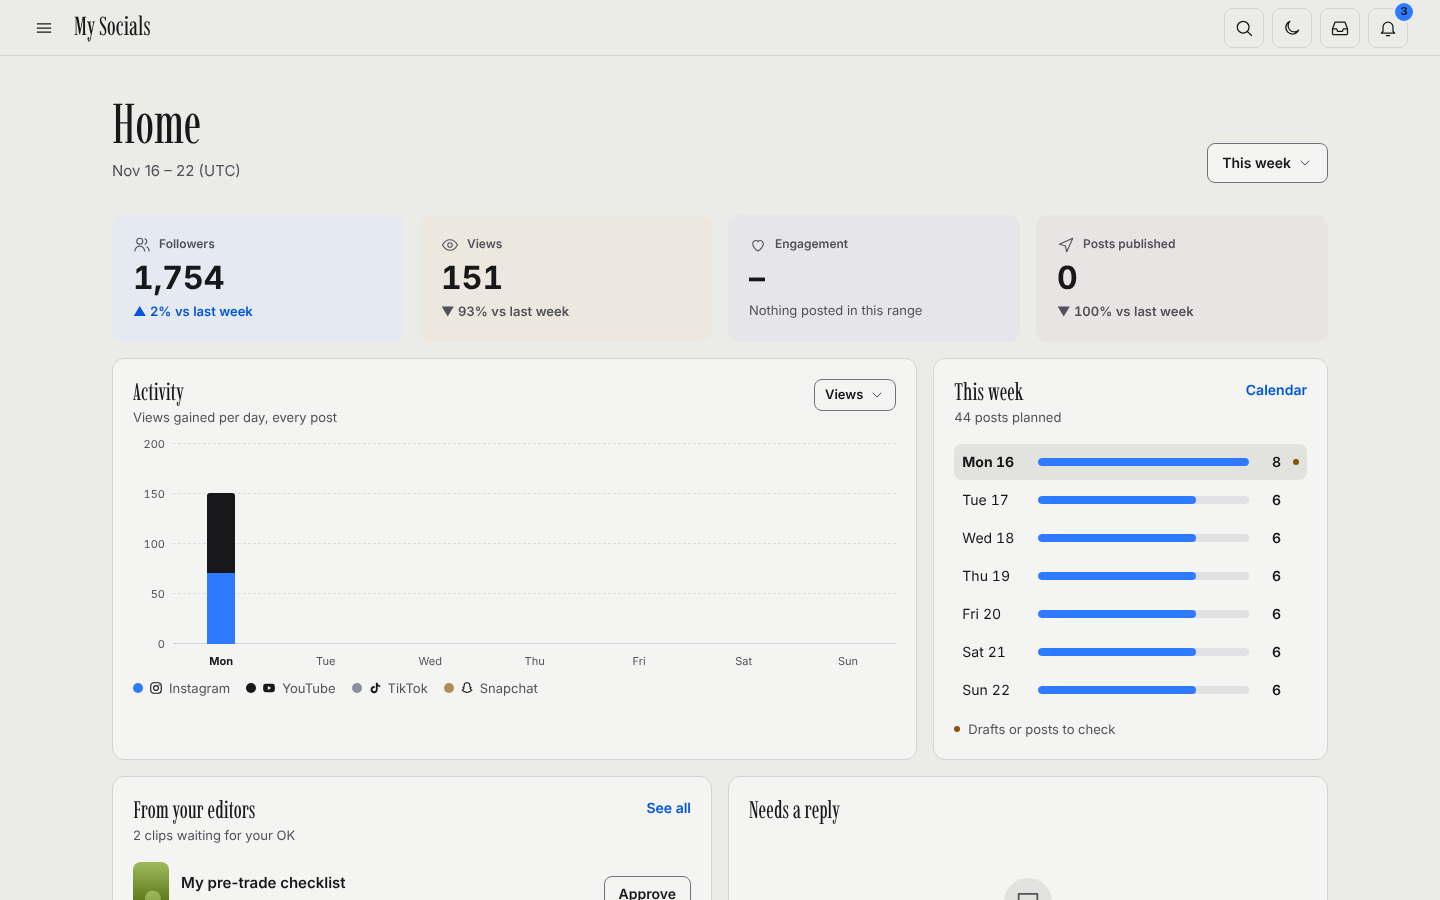
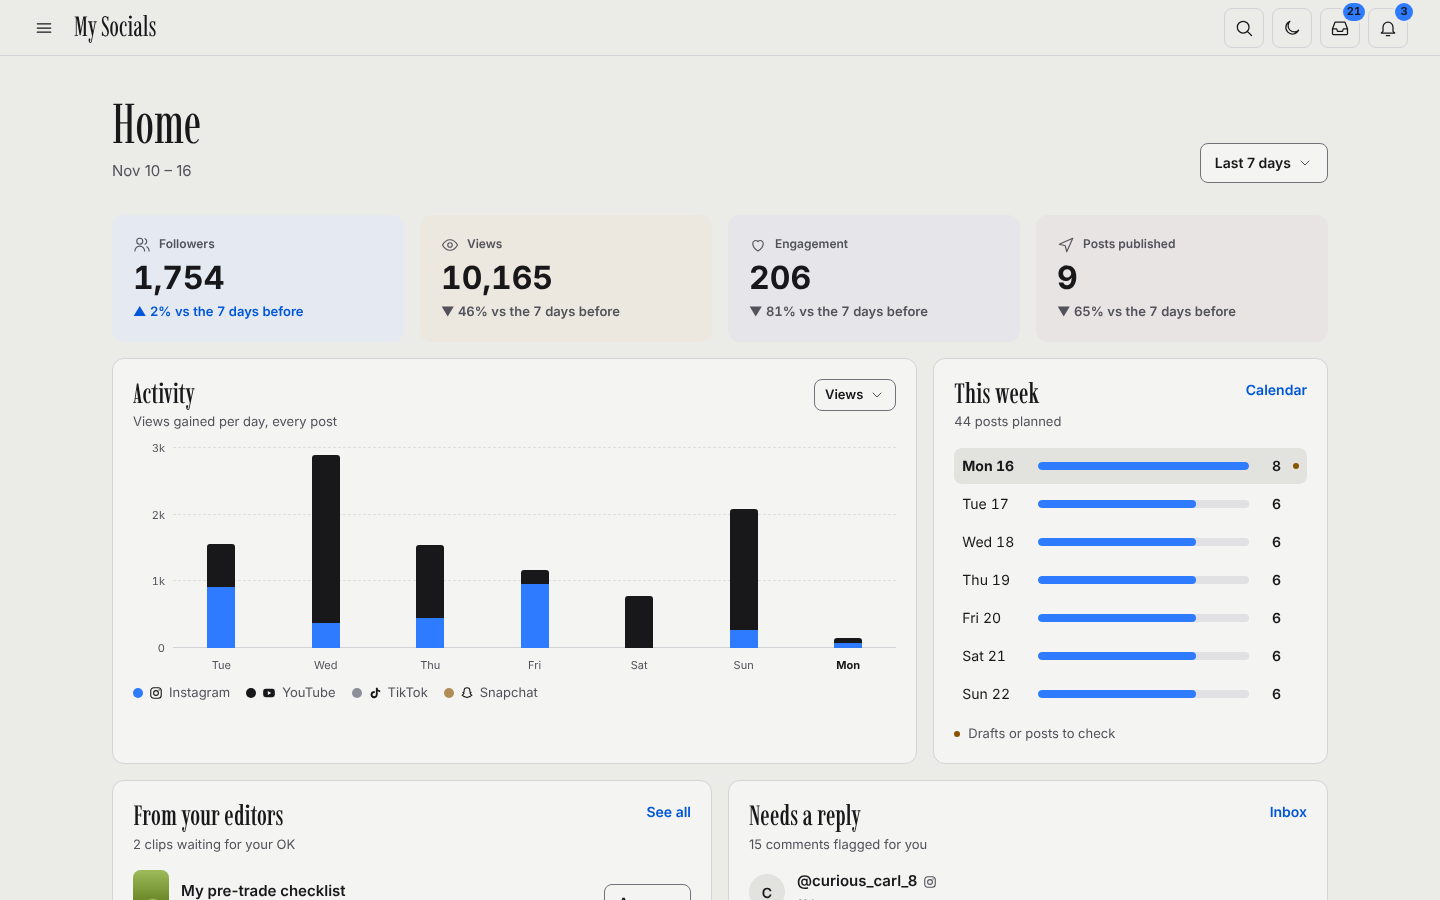
Research backend reviewed (auto ideas/hooks, used archive, yap scripts import, migration 0013) + WIP snapshot of calendar, inbox pages, touch-up (unreviewed)
Claude-Session: https://claude.ai/code/session_01Pfqvb7DoBGuxkrZ85Dq1XH

diff --git a/apps/web/lib/home/dashboard.ts b/apps/web/lib/home/dashboard.ts
@@ -6,16 +6,18 @@ import type { EditorRender } from "../editor/view.js";
 
 // ---------------------------------------------------------------- ranges
 
-export type RangeId = "week" | "last-week" | "30d";
+export type RangeId = "7d" | "30d" | "week";
 export type MetricId = "views" | "engagement";
 
 export const RANGES: ReadonlyArray<{ id: RangeId; label: string; compare: string }> = [
-  { id: "week", label: "This week", compare: "vs last week" },
-  { id: "last-week", label: "Last week", compare: "vs the week before" },
+  { id: "7d", label: "Last 7 days", compare: "vs the 7 days before" },
   { id: "30d", label: "Last 30 days", compare: "vs the 30 days before" },
+  { id: "week", label: "This week", compare: "vs last week" },
 ];
 
-export const parseRange = (raw: unknown): RangeId => (raw === "last-week" || raw === "30d" ? raw : "week");
+/** Default: the rolling 7 days (a calendar week makes Monday look like a crash). */
+export const DEFAULT_RANGE: RangeId = "7d";
+export const parseRange = (raw: unknown): RangeId => (raw === "30d" || raw === "week" ? raw : "7d");
 export const parseMetric = (raw: unknown): MetricId => (raw === "engagement" ? "engagement" : "views");
 
 /** A window of creator-local calendar days: [start, endExcl). `days` = the days the chart shows. */
@@ -29,21 +31,18 @@ const span = (start: string, n: number): string[] => Array.from({ length: n }, (
 export const mondayOf = (ymd: string): string => addCalendarDays(ymd, -weekdayIndex(ymd));
 
 /**
- * The range's window and the one it is compared with. "This week" counts Monday..today and compares with
- * the same days last week (a fair partial-week comparison); the chart still shows Mon–Sun.
+ * The range's window and the one it is compared with. Rolling ranges (7 / 30 days, today included)
+ * compare with the equal-length period just before. "This week" counts Monday..today and compares with
+ * the same days last week (a fair partial-week comparison); its chart still shows Mon–Sun.
  */
 export function periodsFor(range: RangeId, today: string): { current: Period; previous: Period } {
-  if (range === "30d") {
-    const start = addCalendarDays(today, -29);
-    const pStart = addCalendarDays(start, -30);
-    return { current: { start, endExcl: addCalendarDays(today, 1), days: span(start, 30) }, previous: { start: pStart, endExcl: start, days: span(pStart, 30) } };
+  if (range === "30d" || range === "7d") {
+    const n = range === "30d" ? 30 : 7;
+    const start = addCalendarDays(today, -(n - 1));
+    const pStart = addCalendarDays(start, -n);
+    return { current: { start, endExcl: addCalendarDays(today, 1), days: span(start, n) }, previous: { start: pStart, endExcl: start, days: span(pStart, n) } };
   }
   const thisMon = mondayOf(today);
-  if (range === "last-week") {
-    const start = addCalendarDays(thisMon, -7);
-    const pStart = addCalendarDays(start, -7);
-    return { current: { start, endExcl: thisMon, days: span(start, 7) }, previous: { start: pStart, endExcl: start, days: span(pStart, 7) } };
-  }
   const elapsed = weekdayIndex(today) + 1;
   const pStart = addCalendarDays(thisMon, -7);
   return {
@@ -105,9 +104,13 @@ const num = (x: number | null | undefined) => (x == null || !Number.isFinite(x) 
 export const engagementOf = (r: Pick<PostMetricRow, "likes" | "comments" | "shares">) => num(r.likes) + num(r.comments) + num(r.shares);
 const hasMetrics = (r: PostMetricRow) => r.views != null || r.likes != null || r.comments != null || r.shares != null;
 
-/** "▲ 12% vs last week" / "▼ 8% …" / "Same as …"; null when there is nothing to compare with. */
+/**
+ * "▲ 12% vs last week" / "▼ 8% …" / "Same as …". No delta when there is nothing to compare with (previous
+ * null or 0); a current 0 reads "None yet" (muted) instead of "▼ 100%".
+ */
 export function deltaOf(cur: number | null, prev: number | null, compare: string): Delta | null {
   if (cur == null || prev == null || prev <= 0) return null;
+  if (cur === 0) return { text: "None yet", tone: "flat" };
   const pct = Math.round(((cur - prev) / prev) * 100);
   if (pct === 0) return { text: `Same as ${compare.replace(/^vs /, "")}`, tone: "flat" };
   return pct > 0 ? { text: `▲ ${pct}% ${compare}`, tone: "up" } : { text: `▼ ${Math.abs(pct)}% ${compare}`, tone: "down" };

diff --git a/apps/web/public/sw.js b/apps/web/public/sw.js
@@ -1,9 +1,15 @@
 /* autopilot service worker (F8): Web Push only. No fetch handler, no caching, no data stored.
  * Served at /app/sw.js with scope /app/ (public/ under basePath /app; the middleware lets it through).
  * The payload carries only {count, kinds[], sources[], url} (never alert text), so the notification
- * shows a count + kind names; a tap always opens /app/alerts, whatever the payload says. */
+ * shows a count + kind names; a tap opens /app/notifications. One exception (run 4): a push made only of
+ * `reply-ready` alerts may carry a privacy-linted `body` (shown as the text) and an inbox `url`, which a tap
+ * opens only when it is a same-app path under /app/inbox. Anything else opens the default. */
 
-const ALERTS_URL = "/app/alerts";
+const DEFAULT_URL = "/app/notifications";
+/** Same-origin app path under /app/inbox (no scheme, no //, no ..), else null. */
+function inboxUrl(u) {
+  return typeof u === "string" && /^\/app\/inbox(\/[A-Za-z0-9_-]+)*\/?$/.test(u) ? u : null;
+}
 // Same labels as apps/web/lib/alerts/queries.ts (a test keeps them in sync).
 const KIND_LABELS = {
   "final-failure": "Failed",
@@ -25,10 +31,15 @@ const KIND_LABELS = {
 
 function notificationView(data) {
   const d = data && typeof data === "object" ? data : {};
-  if (d.test === true) return { title: "Test notification", body: "Alerts will arrive like this." };
+  if (d.test === true) return { title: "Test notification", body: "Alerts will arrive like this.", url: DEFAULT_URL };
   const count = Number.isInteger(d.count) && d.count > 0 ? d.count : 1;
-  const kinds = Array.isArray(d.kinds) ? d.kinds.filter((k) => Object.prototype.hasOwnProperty.call(KIND_LABELS, k)).map((k) => KIND_LABELS[k]) : [];
-  return { title: count === 1 ? "1 new alert" : `${count} new alerts`, body: kinds.length ? kinds.join(" · ") : "Open alerts" };
+  const raw = Array.isArray(d.kinds) ? d.kinds.filter((k) => Object.prototype.hasOwnProperty.call(KIND_LABELS, k)) : [];
+  if (raw.length > 0 && raw.every((k) => k === "reply-ready")) {
+    const body = typeof d.body === "string" && d.body.trim() ? d.body.trim().slice(0, 200) : count === 1 ? "A comment is waiting for your reply." : `${count} comments are waiting for your reply.`;
+    return { title: count === 1 ? "Reply ready" : `${count} replies ready`, body, url: inboxUrl(d.url) || DEFAULT_URL };
+  }
+  const kinds = raw.map((k) => KIND_LABELS[k]);
+  return { title: count === 1 ? "1 new alert" : `${count} new alerts`, body: kinds.length ? kinds.join(" · ") : "Open alerts", url: DEFAULT_URL };
 }
 
 self.addEventListener("install", () => {
@@ -53,27 +64,29 @@ self.addEventListener("push", (event) => {
       tag: "autopilot-alerts",
       renotify: true,
       icon: "/app/icons/icon-192.png",
-      data: { url: ALERTS_URL },
+      data: { url: view.url },
     }),
   );
 });
 
 self.addEventListener("notificationclick", (event) => {
   event.notification.close();
+  const data = event.notification.data;
+  const target = inboxUrl(data && data.url) || DEFAULT_URL;
   event.waitUntil(
     (async () => {
       const wins = await self.clients.matchAll({ type: "window", includeUncontrolled: true });
       for (const w of wins) {
         if (typeof w.navigate === "function" && typeof w.focus === "function") {
           try {
-            await w.navigate(ALERTS_URL); // throws for a window this worker doesn't control
+            await w.navigate(target); // throws for a window this worker doesn't control
             return await w.focus();
           } catch (_) {
             /* try the next window, else open one */
           }
         }
       }
-      return self.clients.openWindow(ALERTS_URL);
+      return self.clients.openWindow(target);
     })(),
   );
 });

diff --git a/apps/web/lib/push/__tests__/sw.test.ts b/apps/web/lib/push/__tests__/sw.test.ts
@@ -37,7 +37,7 @@ describe("public/sw.js", () => {
     expect(sw.shown).toHaveLength(1);
     expect(sw.shown[0]!.title).toBe("3 new alerts");
     expect(sw.shown[0]!.opts.body).toBe("Failed · Login");
-    expect(sw.shown[0]!.opts.data.url).toBe("/app/alerts");
+    expect(sw.shown[0]!.opts.data.url).toBe("/app/notifications");
   });
 
   it("one alert, a test payload, unknown kinds and a broken payload", async () => {
@@ -51,12 +51,26 @@ describe("public/sw.js", () => {
     expect(sw.shown.map((s) => s.opts.body).join()).not.toContain("evil");
   });
 
-  it("a click always opens /app/alerts, whatever the payload url says", async () => {
+  it("a click opens /app/notifications unless the url is an /app/inbox path", async () => {
     const sw = loadSw();
     let closed = false;
     await sw.fire("notificationclick", { notification: { close: () => (closed = true), data: { url: "https://evil.example.com" } } });
     expect(closed).toBe(true);
-    expect(sw.opened).toEqual(["/app/alerts"]);
+    for (const url of ["//evil.example.com/app/inbox", "/app/inbox/../settings", "/app/inboxx", "/app/batches/1", "javascript:alert(1)"])
+      await sw.fire("notificationclick", { notification: { close: () => {}, data: { url } } });
+    await sw.fire("notificationclick", { notification: { close: () => {}, data: { url: "/app/inbox/item/0b1c2d3e-aaaa-4bbb-8ccc-123456789abc" } } });
+    expect(sw.opened).toEqual([...Array(6).fill("/app/notifications"), "/app/inbox/item/0b1c2d3e-aaaa-4bbb-8ccc-123456789abc"]);
+  });
+
+  it("reply-ready pushes show the payload body and keep an inbox url", async () => {
+    const sw = loadSw();
+    await sw.push({ count: 1, kinds: ["reply-ready"], sources: ["instagram"], url: "/app/inbox/item/c1", body: "gym_fan_22 asked about your warm-up" });
+    await sw.push({ count: 2, kinds: ["reply-ready"], url: "https://evil.example.com" });
+    await sw.push({ count: 2, kinds: ["reply-ready", "auth"], url: "/app/inbox", body: "should not show" });
+    expect(sw.shown[0]!).toMatchObject({ title: "Reply ready", opts: { body: "gym_fan_22 asked about your warm-up", data: { url: "/app/inbox/item/c1" } } });
+    expect(sw.shown[1]!).toMatchObject({ title: "2 replies ready", opts: { data: { url: "/app/notifications" } } });
+    expect(sw.shown[2]!.opts.body).toBe("Reply ready · Login");
+    expect(sw.shown[2]!.opts.data.url).toBe("/app/notifications");
   });
 
   it("focuses an open app window instead of opening a new one", async () => {
@@ -65,7 +79,7 @@ describe("public/sw.js", () => {
     let focused = false;
     sw.self.clients.matchAll = async () => [{ navigate: async (u: string) => void nav.push(u), focus: async () => void (focused = true) }];
     await sw.fire("notificationclick", { notification: { close: () => {} } });
-    expect(nav).toEqual(["/app/alerts"]);
+    expect(nav).toEqual(["/app/notifications"]);
     expect(focused).toBe(true);
     expect(sw.opened).toEqual([]);
   });
@@ -77,8 +91,8 @@ describe("public/sw.js", () => {
   it("kind labels match the /alerts page for every kind", async () => {
     for (const k of ALERT_KINDS) {
       const sw = loadSw();
-      await sw.push({ count: 1, kinds: [k] });
-      expect(sw.shown[0]!.opts.body, k).toBe(kindLabel(k));
+      await sw.push({ count: 1, kinds: [k, "auth"] });
+      expect(sw.shown[0]!.opts.body, k).toBe(k === "auth" ? "Login · Login" : `${kindLabel(k)} · Login`);
     }
   });
 });

diff --git a/apps/web/lib/home/__tests__/dashboard.test.ts b/apps/web/lib/home/__tests__/dashboard.test.ts
@@ -26,8 +26,9 @@ const TODAY = "2026-11-18";
 describe("ranges", () => {
   it("parses with safe defaults", () => {
     expect(parseRange("30d")).toBe("30d");
-    expect(parseRange("last-week")).toBe("last-week");
-    expect(parseRange("x")).toBe("week");
+    expect(parseRange("week")).toBe("week");
+    expect(parseRange("last-week")).toBe("7d");
+    expect(parseRange(undefined)).toBe("7d");
     expect(parseMetric("engagement")).toBe("engagement");
     expect(parseMetric(undefined)).toBe("views");
   });
@@ -39,9 +40,11 @@ describe("ranges", () => {
     expect(current.days[6]).toBe("2026-11-22");
     expect(previous).toMatchObject({ start: "2026-11-09", endExcl: "2026-11-12" });
   });
-  it("last week and 30 days", () => {
-    expect(periodsFor("last-week", TODAY).current).toMatchObject({ start: "2026-11-09", endExcl: "2026-11-16" });
-    expect(periodsFor("last-week", TODAY).previous).toMatchObject({ start: "2026-11-02", endExcl: "2026-11-09" });
+  it("rolling 7 and 30 days compare with the equal-length period before", () => {
+    const w = periodsFor("7d", TODAY);
+    expect(w.current).toMatchObject({ start: "2026-11-12", endExcl: "2026-11-19" });
+    expect(w.current.days).toHaveLength(7);
+    expect(w.previous).toMatchObject({ start: "2026-11-05", endExcl: "2026-11-12" });
     const m = periodsFor("30d", TODAY);
     expect(m.current.days).toHaveLength(30);
     expect(m.current.days[29]).toBe(TODAY);
@@ -82,8 +85,10 @@ describe("KPIs", () => {
     }
     expect(k[0]!.note).toBe("Collected after the next sync");
   });
-  it("delta words: down, same, nothing to compare", () => {
+  it("delta words: down, same, none yet, nothing to compare", () => {
     expect(deltaOf(90, 100, "vs last week")).toEqual({ text: "▼ 10% vs last week", tone: "down" });
+    expect(deltaOf(0, 12, "vs last week")).toEqual({ text: "None yet", tone: "flat" });
+    expect(deltaOf(0, 0, "vs last week")).toBeNull();
     expect(deltaOf(100, 100, "vs last week")).toEqual({ text: "Same as last week", tone: "flat" });
     expect(deltaOf(5, 0, "vs last week")).toBeNull();
     expect(deltaOf(null, 3, "vs last week")).toBeNull();

diff --git a/apps/web/app/page.tsx b/apps/web/app/page.tsx
@@ -34,6 +34,7 @@ import { handoffContext, listHandoff } from "../lib/handoff/store.js";
 import {
   activityBars,
   buildKpis,
+  DEFAULT_RANGE,
   editorTiles,
   hasActivity,
   kpiText,
@@ -61,7 +62,7 @@ const SERIES: ChartSeries[] = (["instagram", "youtube", "tiktok", "snapchat"] as
 
 function homeHref(range: RangeId, metric: MetricId): string {
   const q = new URLSearchParams();
-  if (range !== "week") q.set("range", range);
+  if (range !== DEFAULT_RANGE) q.set("range", range);
   if (metric !== "views") q.set("metric", metric);
   const s = q.toString();
   return s ? `/?${s}` : "/";
@@ -104,7 +105,7 @@ export default async function HomePage({ searchParams }: { searchParams: SearchP
     <AppFrame active="home" counts={counts}>
       <PageHeader
         title="Home"
-        subtitle={`${rangeText(days[0]!, days[days.length - 1]!)}${zone ? "" : " (UTC)"}`}
+        subtitle={rangeText(days[0]!, days[days.length - 1]!)}
         action={<Dropdown label="Range" options={RANGES.map((r) => ({ label: r.label, href: homeHref(r.id, metric), current: r.id === range }))} />}
       />
 

diff --git a/apps/web/components/ui/PageHeader.tsx b/apps/web/components/ui/PageHeader.tsx
@@ -3,12 +3,12 @@ import type { ReactNode } from "react";
 import { cx, FOCUS } from "./cx.js";
 import { Icon } from "./Icon.js";
 
-/** The app's name as a wordmark: "My Socials" in the display face, 26 px. */
+/** The app's name as a wordmark: "My Socials" in the display face, 28 px. */
 export const APP_NAME = "My Socials";
 
-/** `size="lg"` = 40 px (login card); default 26 px (top bar, sidebar). */
+/** `size="lg"` = 40 px (login card); default 28 px (top bar, sidebar). */
 export function Wordmark({ size = "md", className }: { size?: "md" | "lg"; className?: string }) {
-  return <span className={cx("ds-font-display whitespace-nowrap leading-none text-ds-text", size === "lg" ? "text-[40px]" : "text-[26px]", className)}>{APP_NAME}</span>;
+  return <span className={cx("ds-font-display whitespace-nowrap leading-none text-ds-text", size === "lg" ? "text-[40px]" : "text-[28px]", className)}>{APP_NAME}</span>;
 }
 
 /**

diff --git a/apps/web/app/globals.css b/apps/web/app/globals.css
@@ -161,15 +161,15 @@
   font-size: 40px;
   @media (min-width: 1024px) { font-size: 56px; }
 }
-/* Card / section title: 22 px phone / 24 px desktop. */
+/* Card / section title: 26 px phone / 28 px desktop, weight 500 (400 is too thin at this size). */
 @utility ds-heading {
   font-family: var(--font-display-ds);
-  font-weight: 400;
+  font-weight: 500;
   font-optical-sizing: auto;
   letter-spacing: 0;
   line-height: 1.05;
-  font-size: 22px;
-  @media (min-width: 1024px) { font-size: 24px; }
+  font-size: 26px;
+  @media (min-width: 1024px) { font-size: 28px; }
 }
 /* Labels: 12 px Inter 600, sentence case. */
 @utility ds-label {

diff --git a/docs/design/ui-system.md b/docs/design/ui-system.md
@@ -20,7 +20,7 @@ v3 replaces v2 ("Warm Industrial"). The creator used v2 on his phone and called 
 ## Type
 | Role | Font | Spec | Used for |
 |---|---|---|---|
-| Display | **Imbue** (variable, OFL, self-hosted via `@fontsource-variable/imbue`, `opsz` axis on) | weight 400, uppercase off, letter-spacing 0, line-height 1.0 | the logo, page titles (40 px phone / 56 px desktop), card titles (22–24 px), post titles (20–22 px), KPI numbers are **not** display |
+| Display | **Imbue** (variable, OFL, self-hosted via `@fontsource-variable/imbue`, `opsz` axis on) | weight 400 for the logo and page titles, **500** for card/section titles; uppercase off, letter-spacing 0, line-height 1.0; `font-optical-sizing: auto` so `opsz` follows the size | the logo (28 px), page titles (40 px phone / 56 px desktop), card and section titles (26 px phone / 28 px desktop), post titles (20–22 px); KPI numbers are **not** display |
 | Sans | Inter variable | 400 body, 600 labels and buttons, 700 KPI numbers | everything else |
 | Editorial italic | Playfair Display italic | whole sentences only, 20–28 px | one pull-quote per screen at most ("what worked" headline, an empty-state line). Never inside a phrase with another font. |
 
@@ -28,7 +28,7 @@ Imbue is a tall, condensed, high-contrast didone: the closest free match to the 
 
 Sizes (phone / desktop):
 - page title 40 / 56 display;
-- section or card title 22 / 24 display;
+- section or card title 26 / 28 display, weight 500;
 - KPI number 28 / 32 Inter 700 tabular;
 - body 15 / 15;
 - label 12 / 12 Inter 600, sentence case, `ds-muted` (no tracked caps walls; caps only for 1–2 word tags such as GYM, TRADING, at 11 px tracked 0.06em);
@@ -57,7 +57,7 @@ New tokens:
 │  Page title (display)                     [This week ▾]      │
 │  cards…                                                      │
 ```
-- **Top bar.** Left: menu button (44 px square, icon only) then the logo: the word "My Socials" in Imbue, 26 px, linking Home. Right: exactly four 40 px square icon buttons with 8 px radius and a hairline border: Search, Day/Night, Inbox (count badge), Notifications (count badge). Nothing else: no profile block, no CTA.
+- **Top bar.** Left: menu button (44 px square, icon only) then the logo: the word "My Socials" in Imbue, 28 px, linking Home. Right: exactly four 40 px square icon buttons with 8 px radius and a hairline border: Search, Day/Night, Inbox (count badge), Notifications (count badge). Nothing else: no profile block, no CTA.
 - **Sidebar** (`Sidebar`, client). 264 px wide, card fill, hairline right edge, pop shadow. Logo at the top-left in the same position as the top-bar logo, so opening it doesn't shift the mark. Items, each with a 20 px line icon and an Inter 600 15 px label; the active item is a soft pill (`ds-raised`):
   Home · Calendar · Inbox · Analytics (expandable: Overview, Instagram, YouTube, TikTok, Snapchat) · Research · Library (expandable: All clips, Touch-up) · Platforms (expandable: Instagram, YouTube, TikTok, Snapchat) · Settings. "Log out" sits at the bottom. Groups expand in place; the group containing the current page starts open.
   - **Desktop (≥ 1024 px, fine pointer):** hidden by default. A 12 px invisible hot zone on the left screen edge opens it on `pointerenter`; the menu button and keyboard focus also open it. It stays open while the pointer or focus is inside, and closes **2.5 s after the pointer leaves** (timer cancelled on re-entry). Esc closes at once. It overlays content and never reflows the page.
@@ -87,7 +87,7 @@ Routes are under the `/app` base path. Old routes redirect: `/batches` and `/bat
 
 ### Home `/`
 A quick dashboard, one screen on desktop.
-1. `PageHeader` "Home" + range Dropdown (This week / Last week / Last 30 days).
+1. `PageHeader` "Home" + range Dropdown (Last 7 days, the default / Last 30 days / This week). Rolling ranges compare with the equal-length period before; "This week" with the same weekdays last week. No delta when the previous value is 0 or unknown; a current 0 reads "None yet".
 2. Four `StatTile`s (2 × 2 on phone): Followers (all platforms, change in the range), Views, Engagement (likes + comments + shares), Posts published. Each compares with the previous period. A metric with no data yet shows "–" and a one-line reason, not 0.
 3. Row 8 + 4: **Activity** card (`BarChart` of views per day stacked by platform, with its own metric Dropdown: Views / Engagement) and **This week** card (seven rows or columns Mon–Sun with the number of posts scheduled per day as small bars; today marked; each day links to `/calendar?day=`).
 4. Row 6 + 6: **From your editors** (up to 4 compact `PostCard`s waiting for approval with Approve; "See all" → calendar filtered to drafts) and **Needs a reply** (up to 4 flagged inbox items: who, the comment, the drafted reply, "Approve & send" and "Open").

diff --git a/.claude/skills/research-brief/SKILL.md b/.claude/skills/research-brief/SKILL.md
@@ -7,6 +7,8 @@ description: Build the weekly research brief from tracked creators (top hooks, h
 
 Read-only on the platforms. Writes only to `logs/` and, with his OK, to the research backlog (ideas/hooks).
 
+**Ideas and hooks now arrive by themselves** (decisions.md §4 addendum 2026-11-16): the worker job `research-refresh` runs every 3 days, ranks the tracked creators' recent posts, adds niche ideas and the yap scripts, and writes code-made "about / adapt" notes. Check its last run on Research (or `research_runs`) before doing anything by hand. This skill is the **deeper, on-demand brief**: use it when he wants more than the automatic ideas (a pattern read across creators, a fresh angle, or hooks for a specific week).
+
 ## Steps
 1. Run the script:
    - With live data: `pnpm skill:research-brief` (creators from the DB). **The Business Discovery fetch is a stub** until its field list is verified against Meta's docs and logged in `docs/research.md`; until then it prints FAIL and you use a snapshot file.
@@ -14,7 +16,7 @@ Read-only on the platforms. Writes only to `logs/` and, with his OK, to the rese
 2. Read the markdown file the one-line summary names. Hooks that named a place were already dropped; don't go looking for them.
 3. Tag each top hook with its playbook formula (`docs/content-playbook.md` §1: superlative, negation swap, conditional warning, named law + stat, quiet-signal reframe, paradox). Keep processes, not view counts (creator numbers are unverified).
 4. Turn the top patterns into **3–5 ideas and 3–5 hooks in his voice** (docs/voice.md): dry, calm, honest; one idea each, hooks per the playbook rules. Any named law, quote or stat in a hook needs a source URL first; no source, no anchor. Patterns, not copies: never reuse another creator's line verbatim, never mock or call out a creator.
-5. Show them in chat. Add the ones he picks on the phone (Research → ideas / hooks), or, if he asks you to, insert them with `addIdea` / `addHook` from `packages/research` (they lint for privacy on write).
+5. Skip anything the automatic job already added (same reference post or same niche prompt). Show the rest in chat. Add the ones he picks on the phone (Research → ideas / hooks), or, if he asks you to, insert them with `addIdea` / `addHook` from `packages/research` (they lint for privacy on write). Finished ideas go to "Already used" with the Used checkbox, never deleted.
 
 ## Rules
 - Creators are tracked by public handle only. Notes say why we follow them, never where they are.
